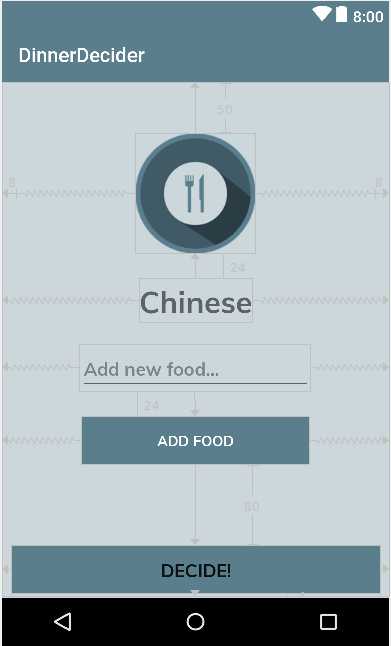
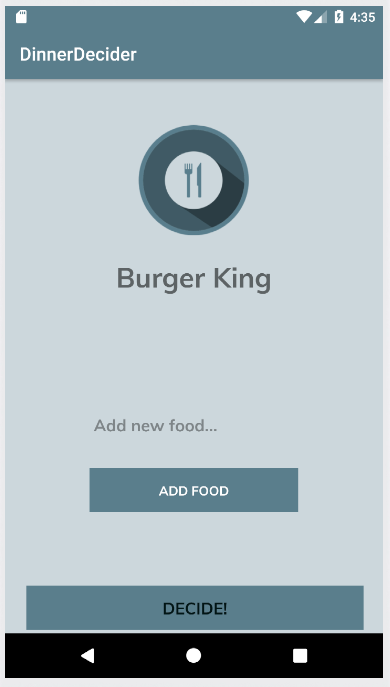
Minor changes

Changed region(s): [[0.0, 0.0, 1.0, 1.0], [0.1846, 0.5573, 0.8, 0.743]]

diff --git a/app/src/main/java/com/insightworkshop/dinnerdecider/MainActivity.kt b/app/src/main/java/com/insightworkshop/dinnerdecider/MainActivity.kt
@@ -2,6 +2,7 @@ package com.insightworkshop.dinnerdecider
 
 import android.support.v7.app.AppCompatActivity
 import android.os.Bundle
+import kotlinx.android.synthetic.main.activity_main.*
 
 class MainActivity : AppCompatActivity() {
 
@@ -9,7 +10,7 @@ class MainActivity : AppCompatActivity() {
         super.onCreate(savedInstanceState)
         setContentView(R.layout.activity_main)
 
-
+        selectedFoodText.text = "Burger King"
 
     }
 }
